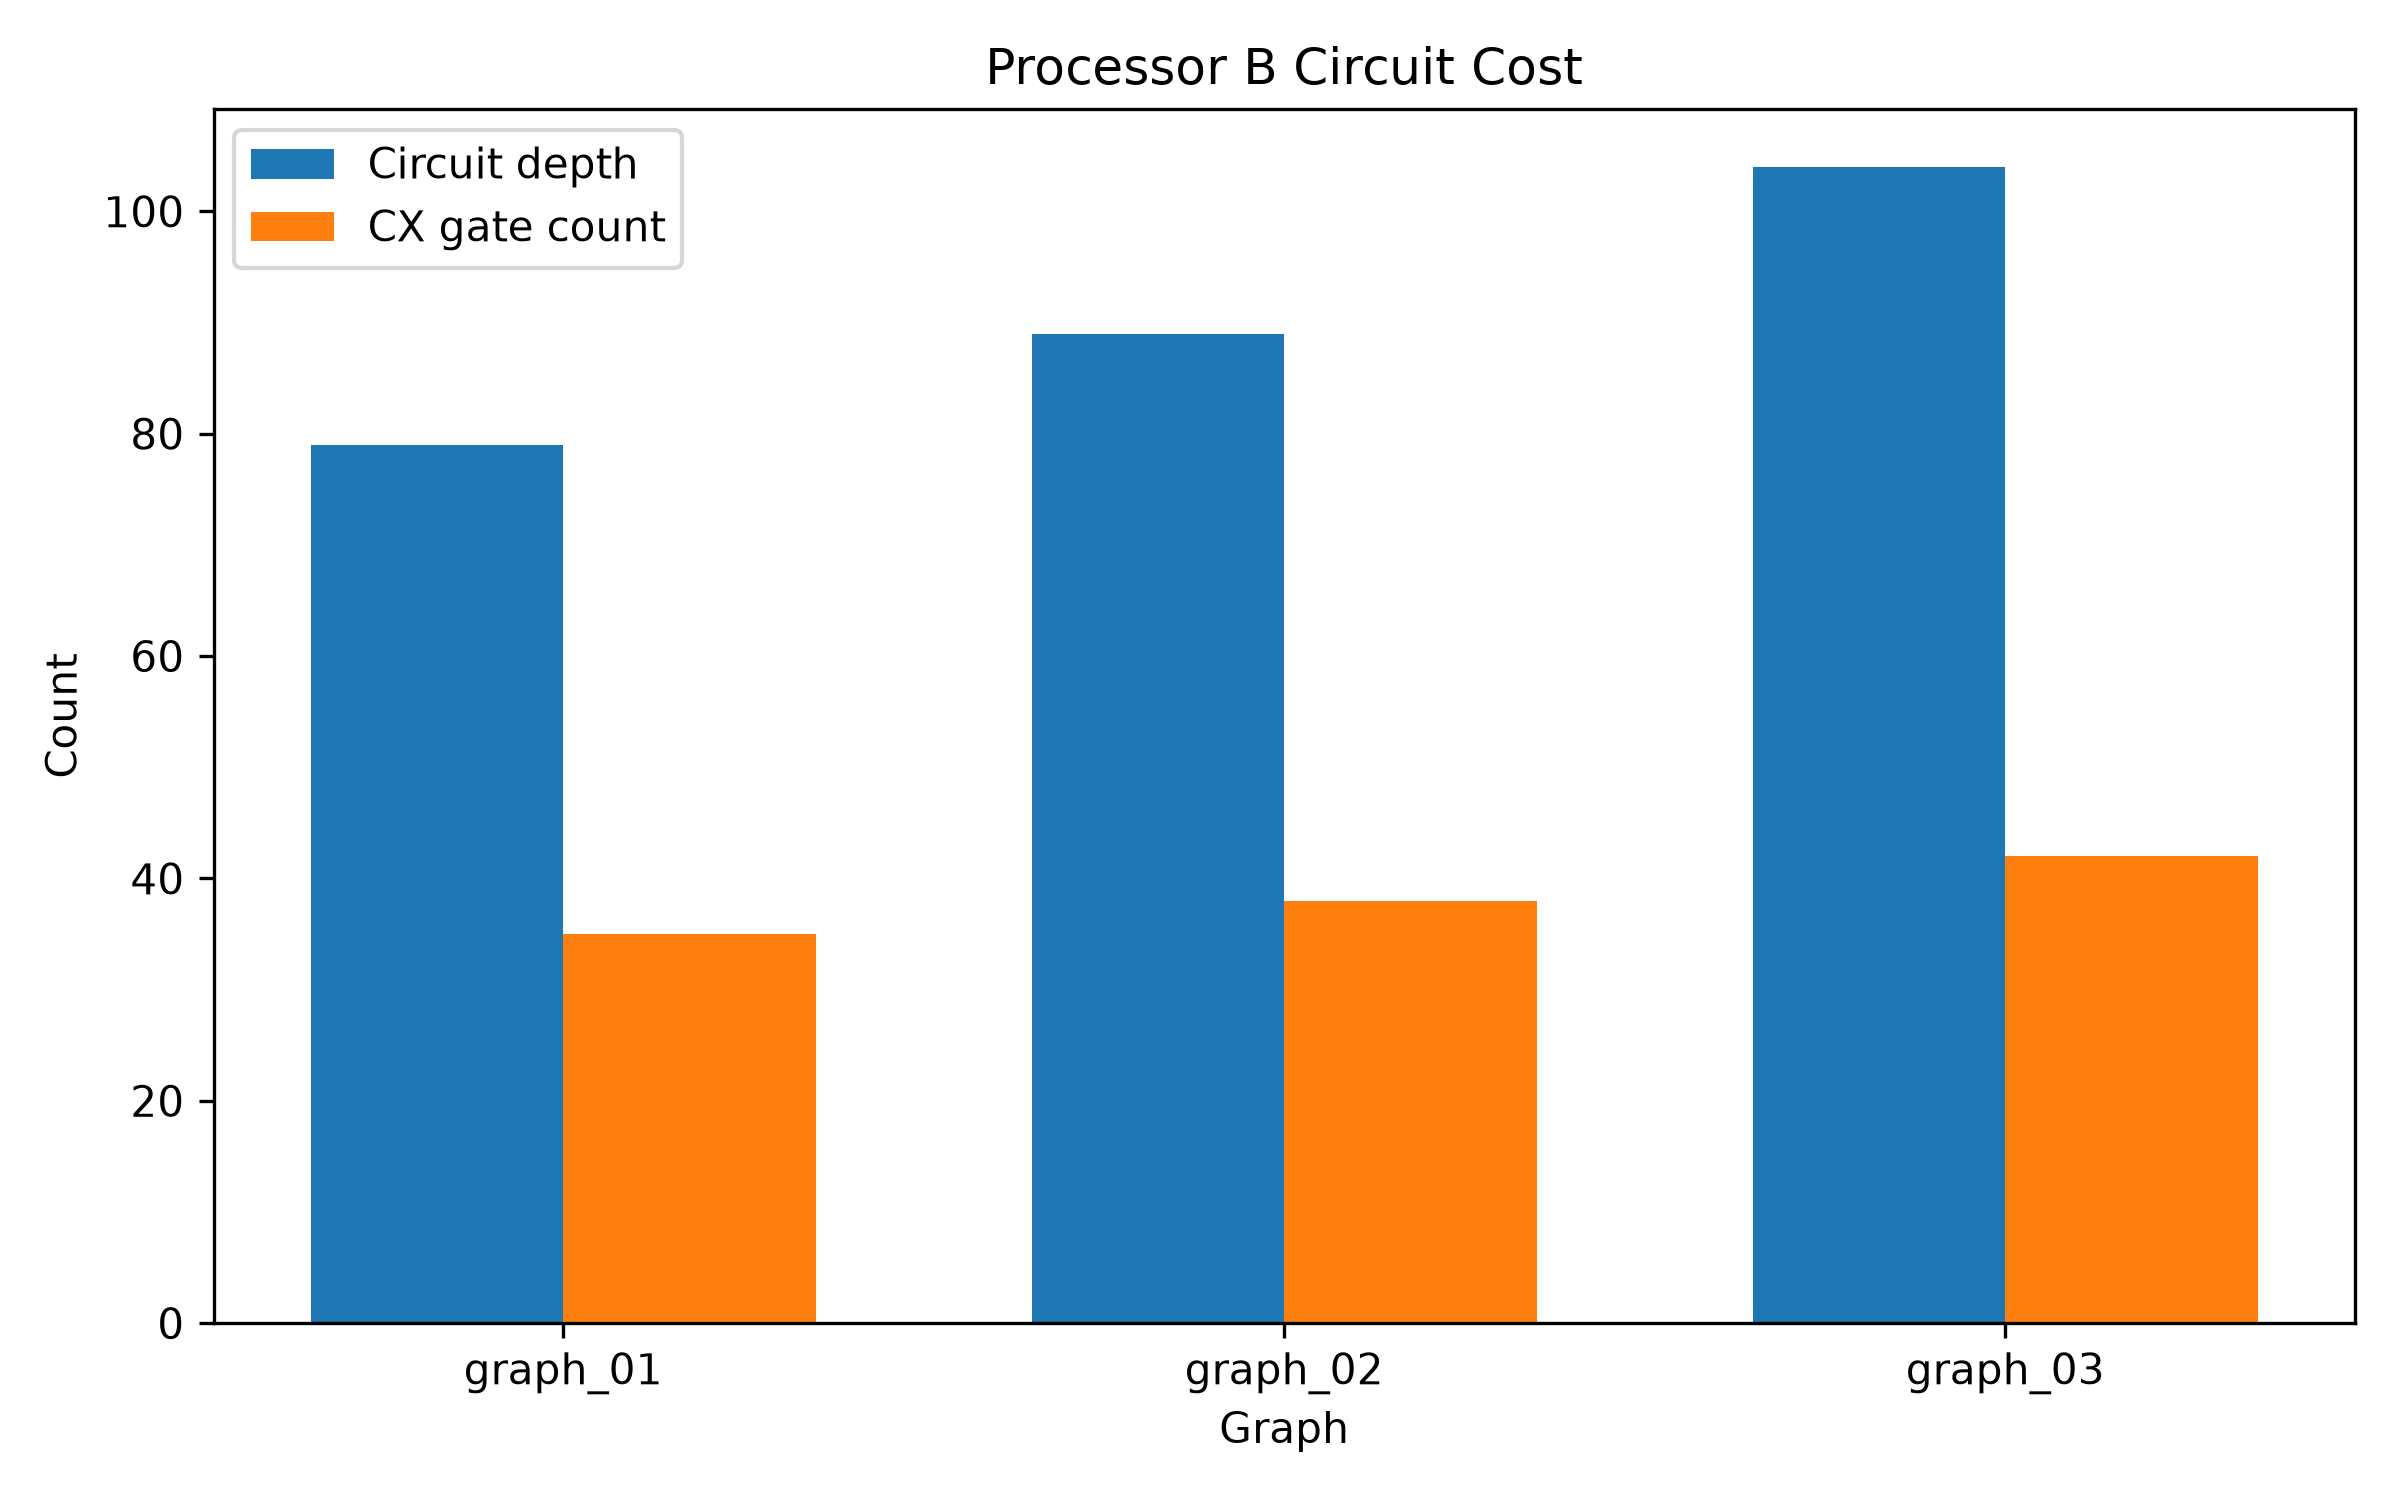
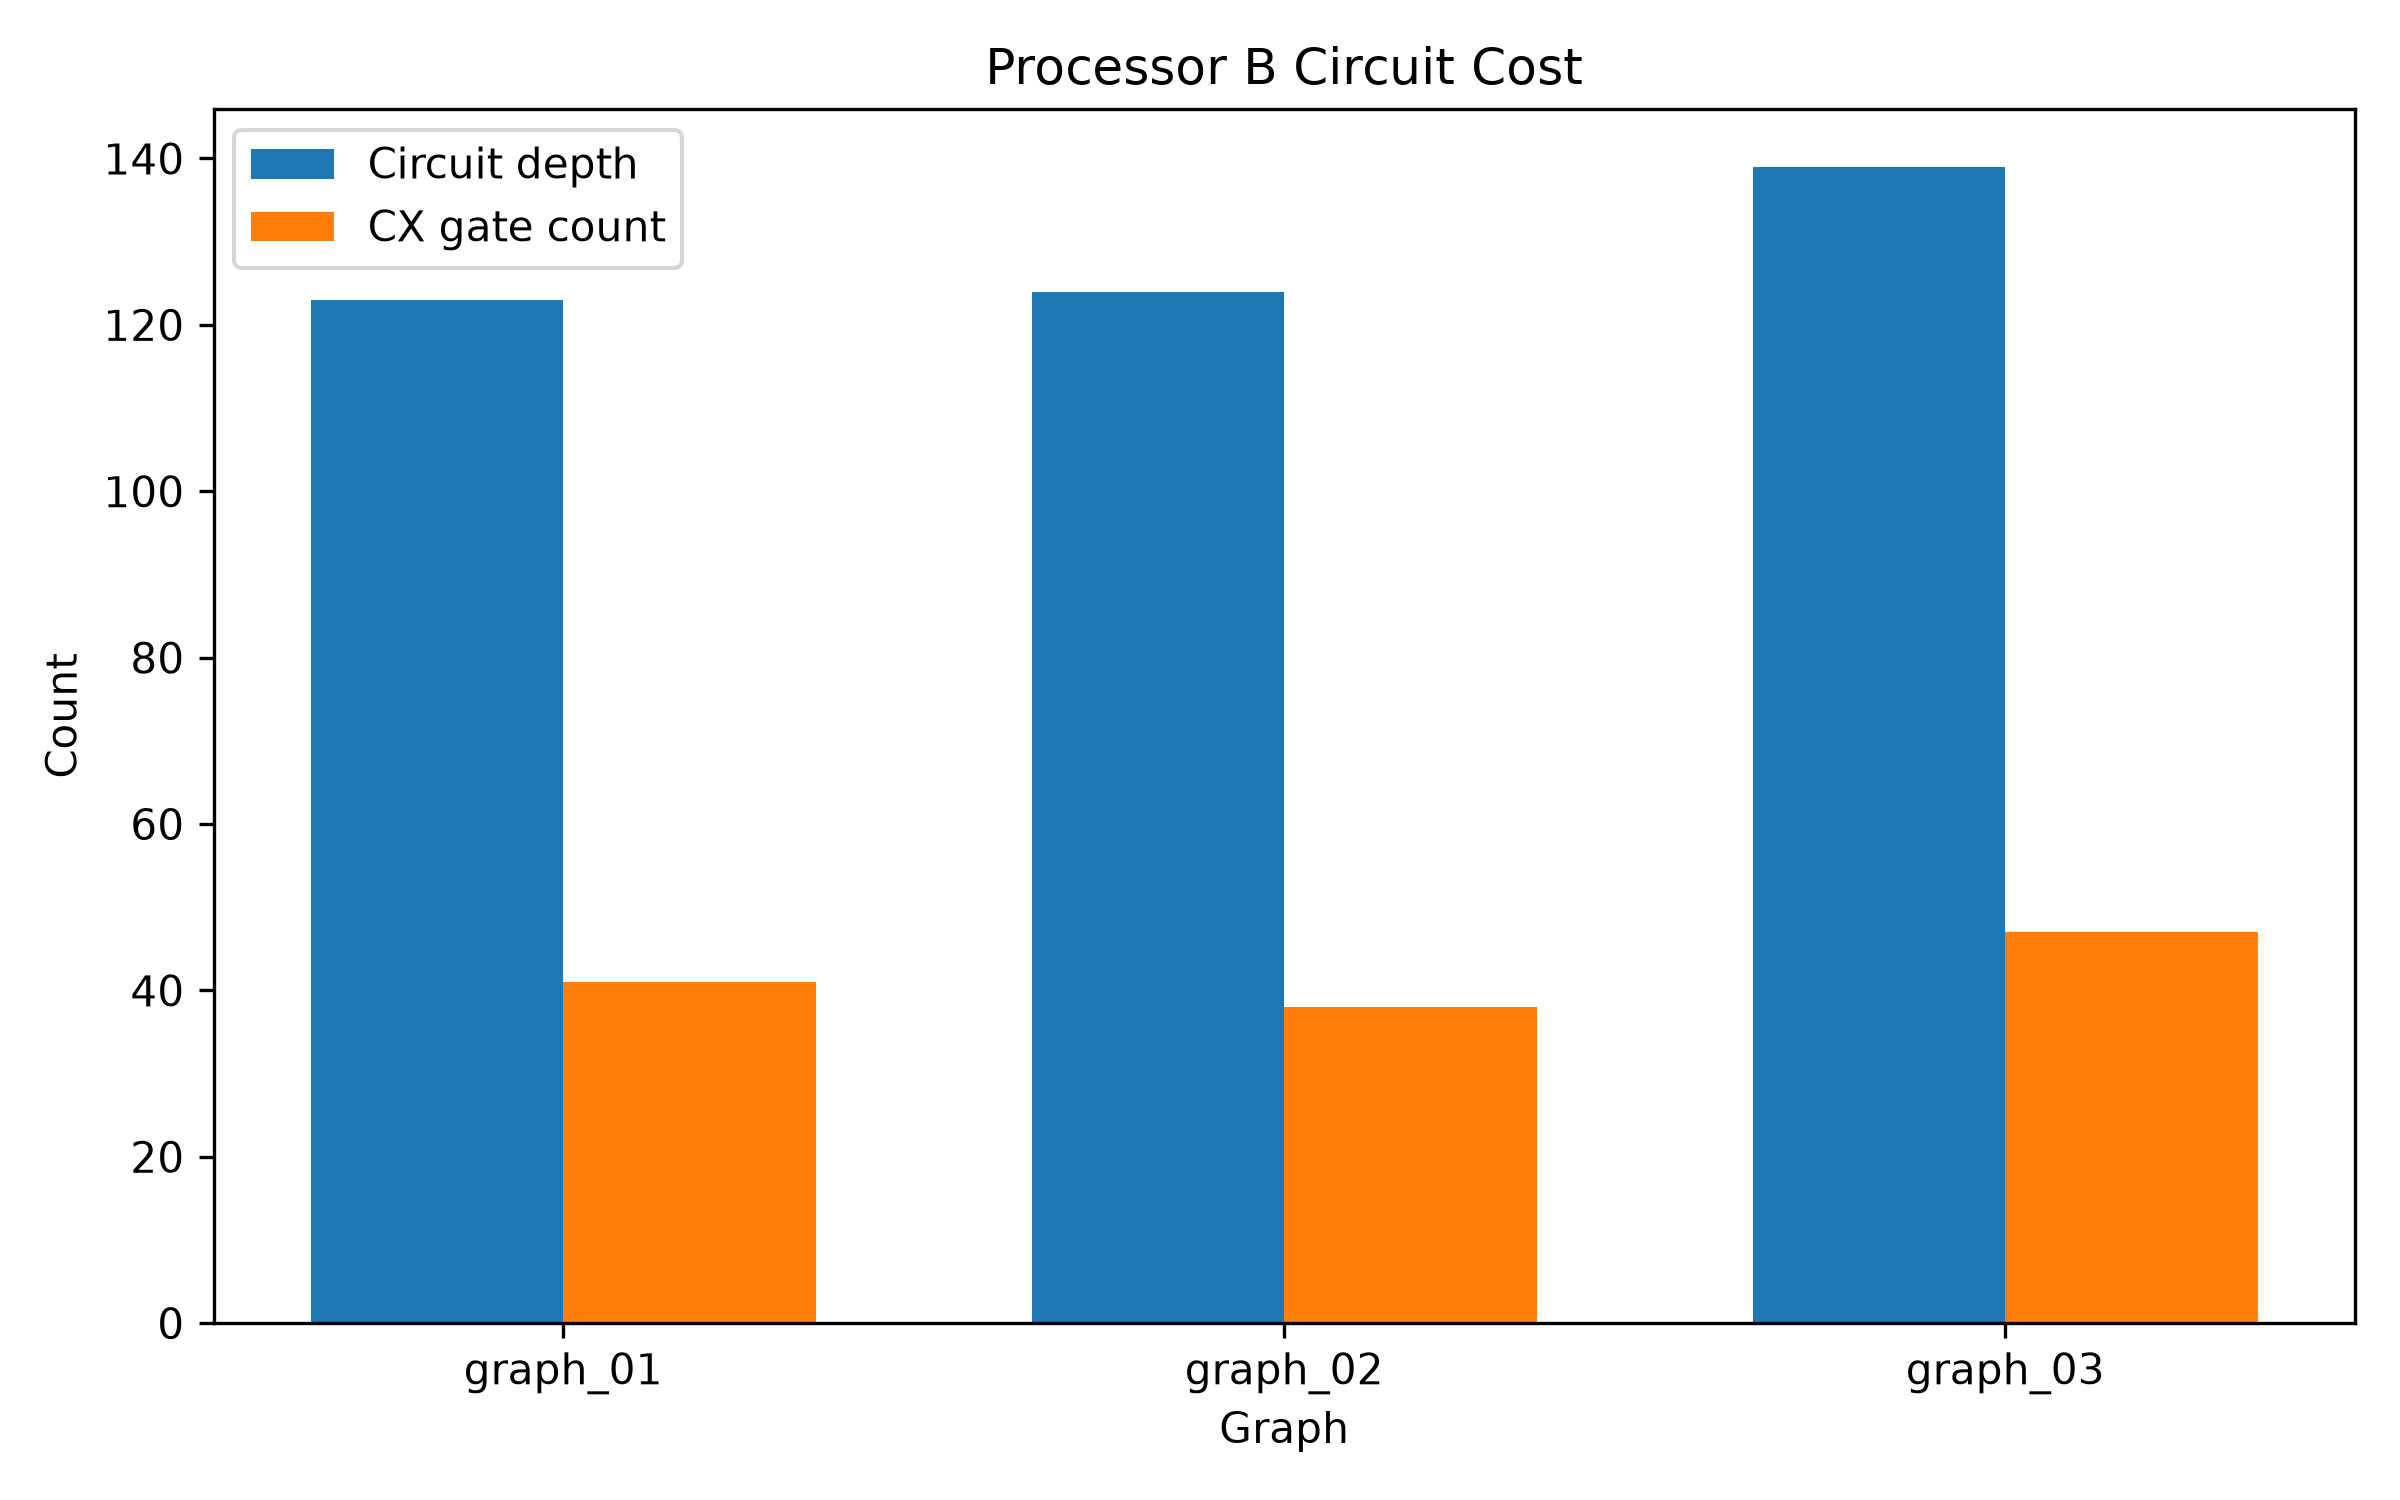
Update QAOA benchmarks and processor topology

diff --git a/src/processor_routing_benchmark.py b/src/processor_routing_benchmark.py
@@ -19,6 +19,8 @@ GAMMA = 0.1
 BETA = 0.3
 BASIS_GATES = ["rz", "sx", "x", "cx"]
 SEED = 42
+SHOTS = 4096
+OPTIMIZATION_LEVEL = 1
 
 
 def load_json(path):
@@ -95,12 +97,13 @@ def main():
 
             try:
                 compiled = transpile(
-                    circuit,
-                    basis_gates=BASIS_GATES,
-                    coupling_map=coupling,
-                    initial_layout=list(range(num_vertices)),
-                    optimization_level=3,
-                    seed_transpiler=SEED,
+                circuit,
+                basis_gates=BASIS_GATES,
+                coupling_map=coupling,
+                initial_layout=list(range(num_vertices)),
+                optimization_level=OPTIMIZATION_LEVEL,
+                seed_transpiler=SEED,
+                routing_method="sabre",
                 )
 
                 operations = compiled.count_ops()

diff --git a/src/optimize_dataset_qaoa.py b/src/optimize_dataset_qaoa.py
@@ -10,7 +10,7 @@ DATA_PATH = ROOT / "data" / "raw" / "maxcut_instances.json"
 OPTIMA_PATH = ROOT / "results" / "tables" / "classical_optima.csv"
 OUTPUT_PATH = ROOT / "results" / "tables" / "qaoa_optimization.csv"
 
-SHOTS = 2048
+SHOTS = 4096
 SEED = 42
 
 # Coarse grid first; refine later around the best candidates.

diff --git a/src/qaoa_dataset_benchmark.py b/src/qaoa_dataset_benchmark.py
@@ -12,7 +12,7 @@ OUTPUT_PATH = ROOT / "results" / "tables" / "qaoa_dataset_results.csv"
 
 GAMMA = 0.5
 BETA = 0.3
-SHOTS = 2048
+SHOTS = 4096
 SEED = 42
 
 with DATA_PATH.open("r", encoding="utf-8-sig") as f:
